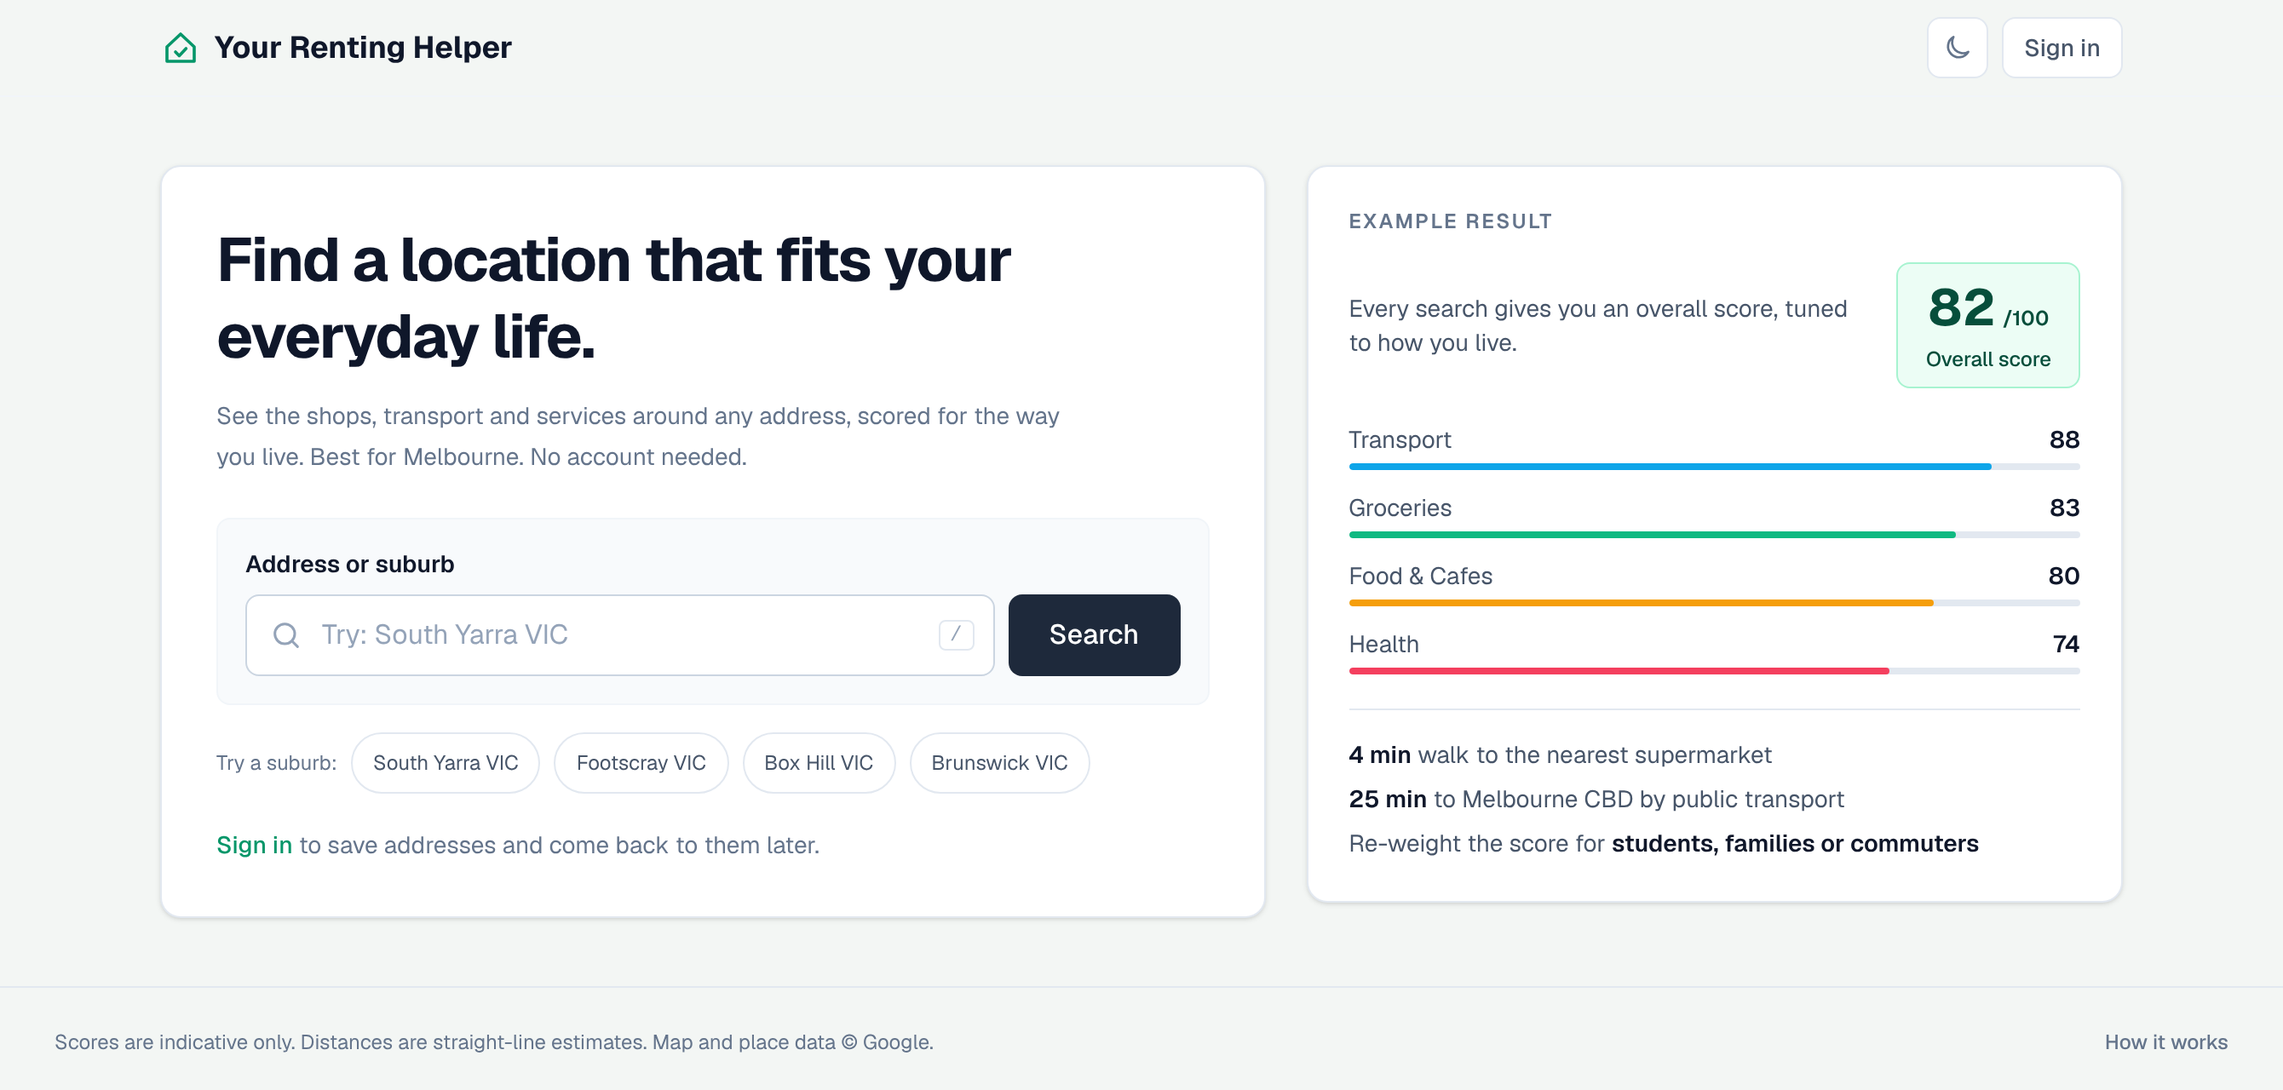
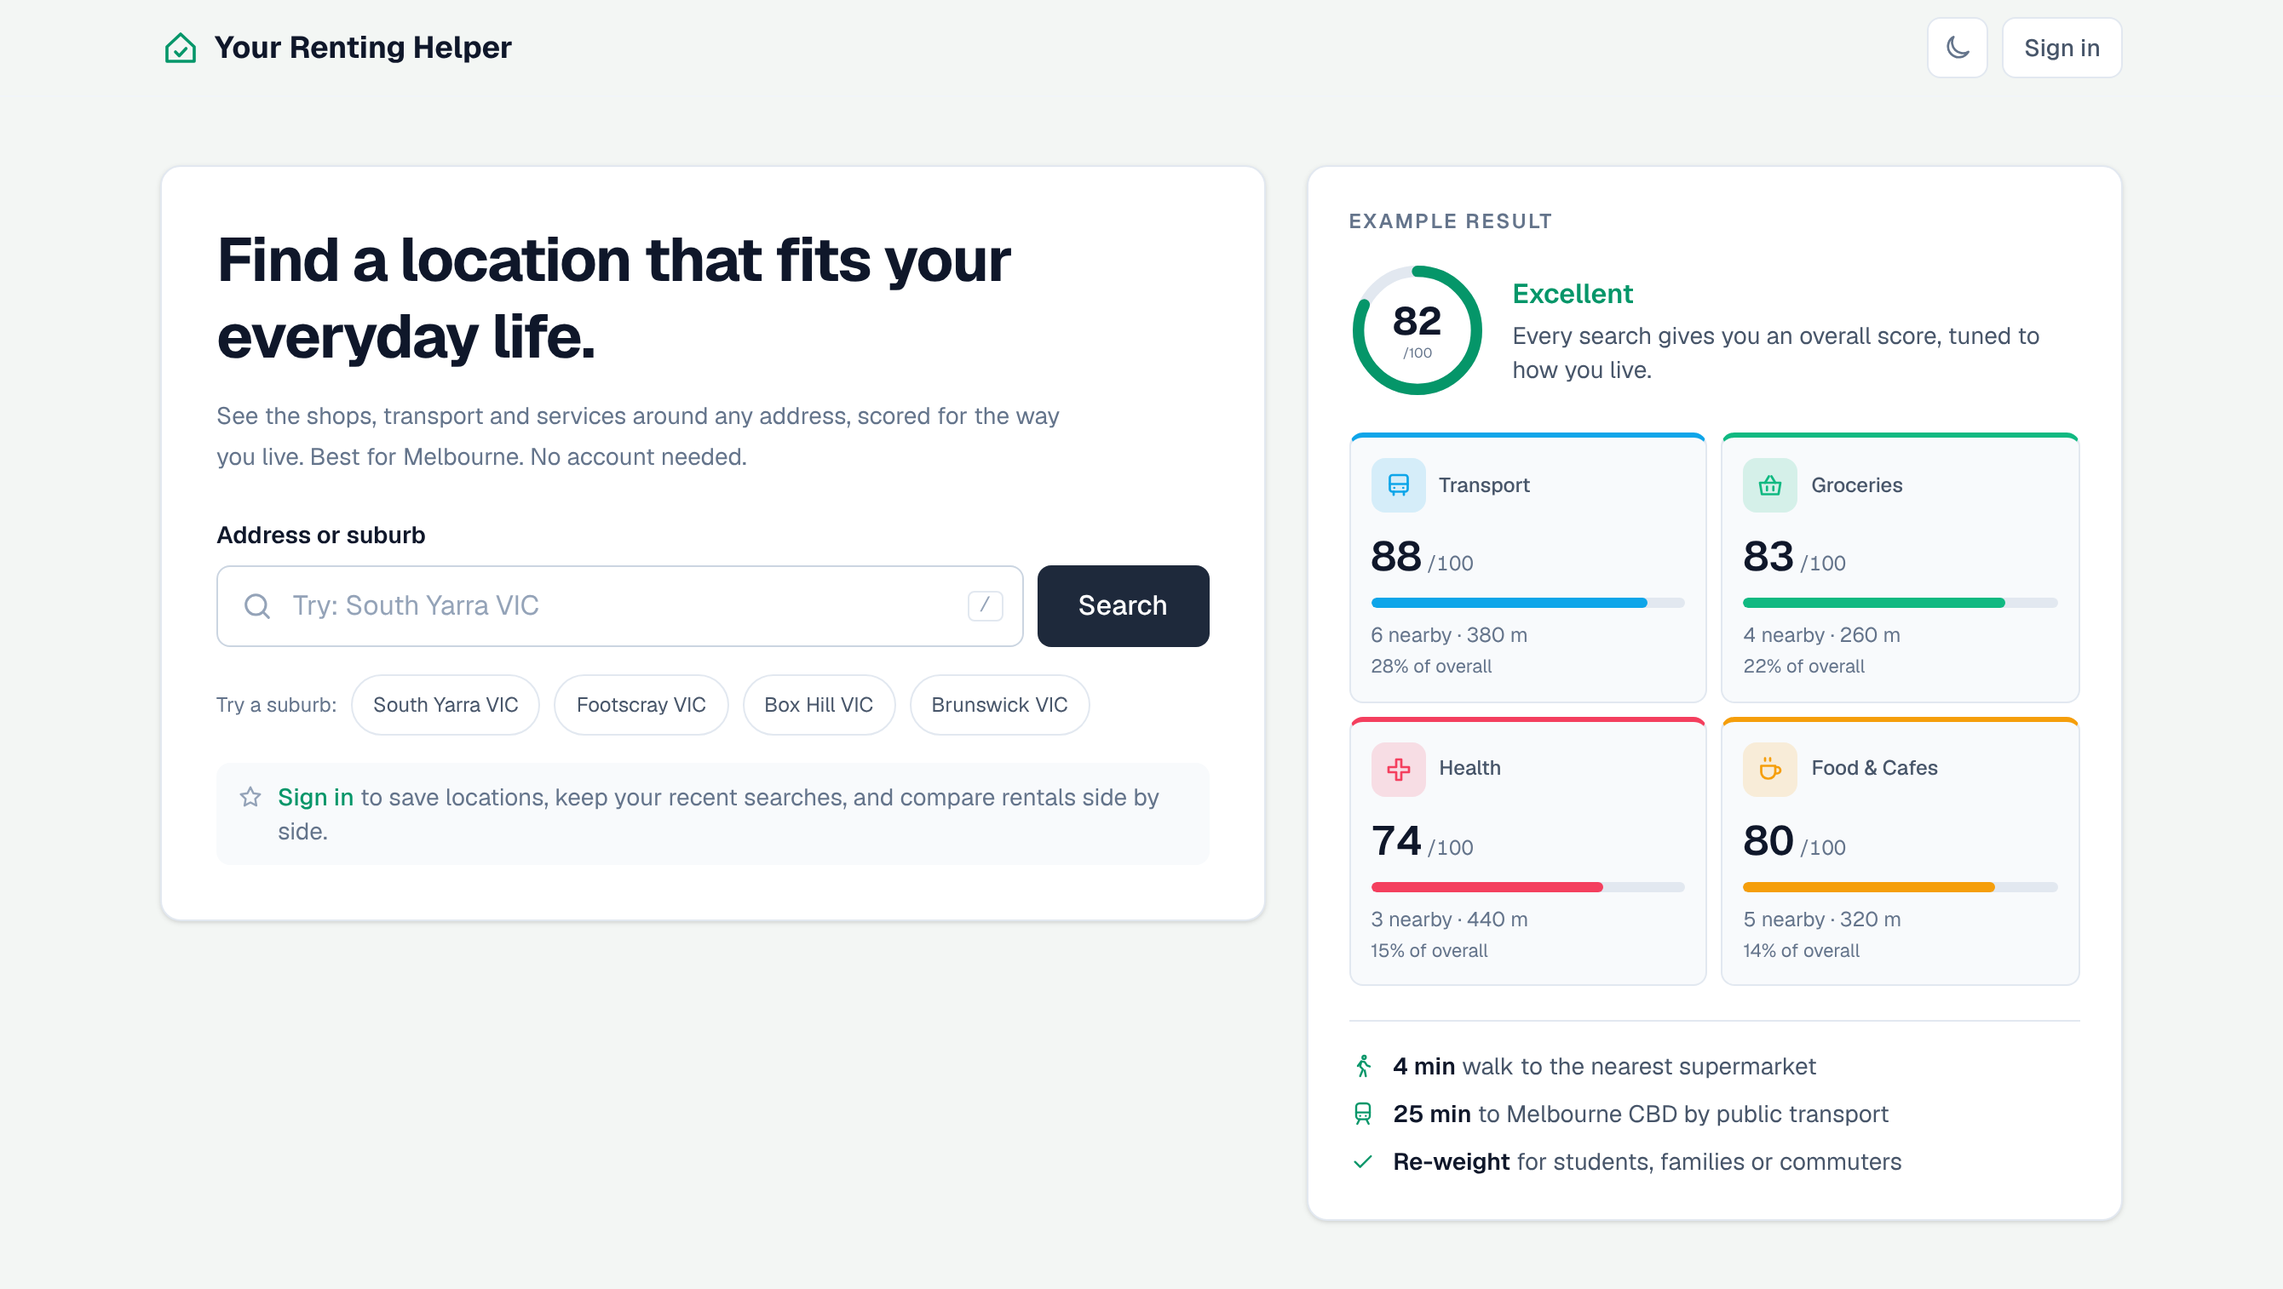
Align the home page with the result page design (#30)
The example result now uses the result page's own ScoreRing and category card face (exported from ScoreBreakdown), the search form sits directly in its card, and the signed-out prompt is the shared RecentSearches strip.

diff --git a/app/components/Welcome.tsx b/app/components/Welcome.tsx
@@ -1,10 +1,17 @@
 "use client";
 
-import Link from "next/link";
-import { useLoginHref } from "@/app/hooks/useLoginHref";
-import { categoryColor, rentScoreCategories } from "@/app/lib/categories";
+import { rentScoreCategories, weightPresets } from "@/app/lib/categories";
+import type { CategoryScore } from "@/app/lib/types";
+import { scoreBand, scoreBandClasses } from "@/app/lib/utils";
 import { useExplore } from "./ExploreProvider";
+import { CheckIcon, TrainIcon, WalkIcon } from "./icons";
 import { RecentSearches } from "./RecentSearches";
+import {
+  CategoryCardFace,
+  categoryCardClass,
+  categoryCardColor,
+} from "./ScoreBreakdown";
+import { ScoreRing } from "./ScoreRing";
 import { SearchForm } from "./SearchForm";
 
 // Four different kinds of Melbourne area; commute times only cover Melbourne.
@@ -17,75 +24,91 @@ const exampleSuburbs = [
 
 // Static numbers for the "Example result" preview. They are not a real
 // address, so the card is labelled as an example and names no suburb.
-// Labels and colours come from the real category config.
-const exampleScores = (
+// Labels come from the real category config and weights from the Balanced
+// preset, so the cards read exactly like a real result.
+const exampleOverall = 82;
+const exampleScores: CategoryScore[] = (
   [
-    ["transport", 88],
-    ["groceries", 83],
-    ["food", 80],
-    ["health", 74],
+    ["transport", 88, 6, 380],
+    ["groceries", 83, 4, 260],
+    ["health", 74, 3, 440],
+    ["food", 80, 5, 320],
   ] as const
-).map(([id, score]) => ({
-  id,
-  label: rentScoreCategories.find((item) => item.id === id)?.label ?? id,
-  score,
-}));
+).map(([id, score, count, closestDistanceMeters]) => {
+  const category = rentScoreCategories.find((item) => item.id === id);
 
+  return {
+    id,
+    label: category?.label ?? id,
+    score,
+    weight: weightPresets.balanced[id],
+    detail: "",
+    count,
+    closestDistanceMeters,
+    radiusMeters: category?.radiusMeters ?? 0,
+    explanation: "",
+  };
+});
+
+const exampleFacts = [
+  { Icon: WalkIcon, strong: "4 min", text: "walk to the nearest supermarket" },
+  {
+    Icon: TrainIcon,
+    strong: "25 min",
+    text: "to Melbourne CBD by public transport",
+  },
+  {
+    Icon: CheckIcon,
+    strong: "Re-weight",
+    text: "for students, families or commuters",
+  },
+];
+
+// Uses the result page's own pieces (ScoreRing, the category card face) so
+// the preview matches what a search actually shows.
 function ExampleResult() {
+  const band = scoreBand(exampleOverall);
+
   return (
     <aside
       aria-label="Example result"
-      className="hidden rounded-xl border border-line bg-surface p-6 shadow-sm lg:block"
+      className="hidden rounded-xl border border-line bg-surface p-5 shadow-sm sm:p-6 lg:block"
     >
       <p className="text-xs font-semibold uppercase tracking-widest text-ink-muted">
         Example result
       </p>
-      <div className="mt-4 flex items-center justify-between gap-4">
-        <p className="text-sm text-ink-soft">
-          Every search gives you an overall score, tuned to how you live.
-        </p>
-        <div className="flex shrink-0 flex-col items-center rounded-lg border border-accent-line bg-accent-soft px-4 py-2 text-accent-ink">
-          <p className="leading-none">
-            <span className="text-3xl font-bold">82</span>
-            <span className="ml-1 text-xs font-semibold">/100</span>
+      <div className="mt-4 flex items-center gap-4">
+        <ScoreRing score={exampleOverall} className="size-20" />
+        <div className="min-w-0">
+          <p className={`font-semibold ${scoreBandClasses[band.band].text}`}>
+            {band.label}
           </p>
-          <p className="mt-1 text-xs font-medium">Overall score</p>
+          <p className="mt-0.5 text-sm text-ink-soft">
+            Every search gives you an overall score, tuned to how you live.
+          </p>
         </div>
       </div>
-      <ul className="mt-5 space-y-3">
-        {exampleScores.map((item) => (
-          <li key={item.id}>
-            <div className="flex items-baseline justify-between text-sm">
-              <span className="text-ink-soft">{item.label}</span>
-              <span className="font-semibold text-ink">{item.score}</span>
-            </div>
-            <div className="mt-1 h-1 overflow-hidden rounded-full bg-line">
-              <div
-                className="h-full rounded-full"
-                style={{
-                  width: `${item.score}%`,
-                  backgroundColor: categoryColor(item.id),
-                }}
-              />
+      <ul className="mt-5 grid grid-cols-2 gap-2">
+        {exampleScores.map((category) => (
+          <li key={category.id}>
+            <div
+              className={categoryCardClass}
+              style={{ borderTopColor: categoryCardColor(category) }}
+            >
+              <CategoryCardFace category={category} />
             </div>
           </li>
         ))}
       </ul>
-      <ul className="mt-5 space-y-1.5 border-t border-line pt-4 text-sm text-ink-soft">
-        <li>
-          <span className="font-semibold text-ink">4 min</span> walk to the
-          nearest supermarket
-        </li>
-        <li>
-          <span className="font-semibold text-ink">25 min</span> to Melbourne
-          CBD by public transport
-        </li>
-        <li>
-          Re-weight the score for{" "}
-          <span className="font-semibold text-ink">
-            students, families or commuters
-          </span>
-        </li>
+      <ul className="mt-5 space-y-2 border-t border-line pt-4 text-sm text-ink-soft">
+        {exampleFacts.map(({ Icon, strong, text }) => (
+          <li key={strong} className="flex items-center gap-2.5">
+            <Icon className="size-4 shrink-0 text-accent" />
+            <span>
+              <span className="font-semibold text-ink">{strong}</span> {text}
+            </span>
+          </li>
+        ))}
       </ul>
     </aside>
   );
@@ -100,7 +123,6 @@ export function Welcome({
   onToggleSaved: Parameters<typeof RecentSearches>[0]["onToggleSaved"];
 }) {
   const search = useExplore();
-  const loginHref = useLoginHref();
 
   return (
     // Same outer padding and max width as the site header, so the logo and
@@ -115,7 +137,7 @@ export function Welcome({
             See the shops, transport and services around any address, scored for
             the way you live. Best for Melbourne. No account needed.
           </p>
-          <div className="mt-6 rounded-lg border border-line-soft bg-surface-subtle p-3 sm:p-4">
+          <div className="mt-6">
             <SearchForm
               autocomplete={search.autocomplete}
               searchState={search.searchState}
@@ -138,28 +160,19 @@ export function Welcome({
               </button>
             ))}
           </div>
-          {search.canSave ? (
+          {/* Hidden while the session loads so signed-in visitors never see
+              the sign-in strip flash before their chips arrive. Signed out,
+              RecentSearches shows the same strip as the result page. */}
+          {search.canSave || !search.sessionPending ? (
             <RecentSearches
               recent={search.recent}
               saved={search.saved}
               disabled={search.busy}
-              canSave
+              canSave={search.canSave}
               onSelect={search.searchFromHistory}
               onToggleSaved={onToggleSaved}
               onRemove={(entry) => void search.removeRecent(entry)}
             />
-          ) : !search.sessionPending ? (
-            // Hidden while the session loads so signed-in visitors never see
-            // it flash before their chips arrive.
-            <p className="mt-5 text-sm text-ink-muted">
-              <Link
-                href={loginHref}
-                className="font-medium text-accent hover:underline"
-              >
-                Sign in
-              </Link>{" "}
-              to save addresses and come back to them later.
-            </p>
           ) : null}
           {search.savedError ? (
             <p role="alert" className="mt-3 text-sm text-danger-ink">

diff --git a/app/components/ScoreBreakdown.tsx b/app/components/ScoreBreakdown.tsx
@@ -38,6 +38,60 @@ function closestPlace(group: PlaceGroup | undefined) {
   );
 }
 
+// The look of one category card: icon, score, coloured bar and the nearby
+// line. Exported so the home page's example result uses the same card and
+// cannot drift from the real one.
+export function CategoryCardFace({ category }: { category: CategoryScore }) {
+  const color = categoryCardColor(category);
+
+  return (
+    <>
+      <span className="flex items-center gap-2">
+        <CategoryTile
+          categoryId={category.id}
+          color={categoryColor(category.id)}
+        />
+        <span className="min-w-0 text-xs font-medium leading-tight text-ink-soft">
+          {category.label}
+        </span>
+      </span>
+      <span className="mt-2.5 text-2xl font-semibold tabular-nums text-ink">
+        {category.score}
+        <span className="text-xs font-normal text-ink-muted"> /100</span>
+      </span>
+      <span
+        aria-hidden="true"
+        className="mt-2 h-1.5 overflow-hidden rounded-full bg-score-track"
+      >
+        <span
+          className="block h-full rounded-full motion-safe:transition-[width] motion-safe:duration-500"
+          style={{ width: `${category.score}%`, backgroundColor: color }}
+        />
+      </span>
+      <span className="mt-2 text-xs text-ink-muted">
+        {category.count} nearby ·{" "}
+        {category.closestDistanceMeters === null
+          ? "no match"
+          : formatDistance(category.closestDistanceMeters)}
+      </span>
+      <span className="mt-0.5 text-[11px] text-ink-muted">
+        {category.weight === 0
+          ? "Not counted in overall"
+          : `${category.weight}% of overall`}
+      </span>
+    </>
+  );
+}
+
+// Card frame shared by the clickable result card and the static example:
+// the top border carries the category colour.
+export const categoryCardClass =
+  "flex h-full w-full flex-col rounded-lg border border-t-[3px] border-line bg-surface-subtle p-3 text-left";
+
+export function categoryCardColor(category: CategoryScore) {
+  return category.weight === 0 ? "#94a3b8" : categoryColor(category.id);
+}
+
 function CategoryCard({
   category,
   selected,
@@ -47,57 +101,24 @@ function CategoryCard({
   selected: boolean;
   onSelect: () => void;
 }) {
-  const excluded = category.weight === 0;
-  const color = excluded ? "#94a3b8" : categoryColor(category.id);
+  const color = categoryCardColor(category);
 
   return (
-    <li className={excluded ? "opacity-55" : ""}>
+    <li className={category.weight === 0 ? "opacity-55" : ""}>
       <button
         type="button"
         aria-expanded={selected}
         aria-controls={detailPanelId}
         onClick={onSelect}
-        // The top border carries the category colour; the selected card also
-        // gets a ring in the same colour so it reads as the open one.
-        className="focus-ring flex h-full w-full flex-col rounded-lg border border-t-[3px] border-line bg-surface-subtle p-3 text-left transition hover:bg-hover"
+        // The selected card also gets a ring in its colour so it reads as
+        // the open one.
+        className={`focus-ring ${categoryCardClass} transition hover:bg-hover`}
         style={{
           borderTopColor: color,
           boxShadow: selected ? `0 0 0 2px ${color}` : undefined,
         }}
       >
-        <span className="flex items-center gap-2">
-          <CategoryTile
-            categoryId={category.id}
-            color={categoryColor(category.id)}
-          />
-          <span className="min-w-0 text-xs font-medium leading-tight text-ink-soft">
-            {category.label}
-          </span>
-        </span>
-        <span className="mt-2.5 text-2xl font-semibold tabular-nums text-ink">
-          {category.score}
-          <span className="text-xs font-normal text-ink-muted"> /100</span>
-        </span>
-        <span
-          aria-hidden="true"
-          className="mt-2 h-1.5 overflow-hidden rounded-full bg-score-track"
-        >
-          <span
-            className="block h-full rounded-full motion-safe:transition-[width] motion-safe:duration-500"
-            style={{ width: `${category.score}%`, backgroundColor: color }}
-          />
-        </span>
-        <span className="mt-2 text-xs text-ink-muted">
-          {category.count} nearby ·{" "}
-          {category.closestDistanceMeters === null
-            ? "no match"
-            : formatDistance(category.closestDistanceMeters)}
-        </span>
-        <span className="mt-0.5 text-[11px] text-ink-muted">
-          {excluded
-            ? "Not counted in overall"
-            : `${category.weight}% of overall`}
-        </span>
+        <CategoryCardFace category={category} />
       </button>
     </li>
   );

diff --git a/dev_notes.md b/dev_notes.md
@@ -37,7 +37,7 @@ The product direction remains amenities-first. Scores are compact summaries; nea
 
 ### Implemented
 
-- One page per address. From `lg` up the page is a split view: a scrolling column of cards (by default about half the page on `lg` and 800px from `xl`) beside a map card that fills the rest of the width and one screen height under the header, with a 16px margin to the right and bottom edges. A divider between them (`SplitDivider.tsx`, `role="separator"`) resizes the split: drag it, or focus it and use Left/Right (Shift for bigger steps), Home/End for the limits, and Enter or double-click to reset. The card column stays at least 440px and the map at least 480px (`splitLimits` in `utils.ts`). The chosen width is a CSS variable on the grid, written directly while dragging and saved to localStorage on release (`useSplitWidth.ts`), so it is kept per browser. The card column is a CSS container, so cards that change layout (the category grid, the Nearby amenities columns) follow the column's width, not the window's. Below `lg` the result is split into Scores, Places and Map tabs. Before the first search, `/` shows a simple welcome (`Welcome.tsx`) instead: a search card with a headline, short intro (best for Melbourne), the search form, four example suburbs, and either a sign-in line or the saved and recent chips, beside a static "Example result" card (hidden on phones). It has no map and makes no provider request. Location pages always show the workspace, so a direct visit never flashes the welcome.
+- One page per address. From `lg` up the page is a split view: a scrolling column of cards (by default about half the page on `lg` and 800px from `xl`) beside a map card that fills the rest of the width and one screen height under the header, with a 16px margin to the right and bottom edges. A divider between them (`SplitDivider.tsx`, `role="separator"`) resizes the split: drag it, or focus it and use Left/Right (Shift for bigger steps), Home/End for the limits, and Enter or double-click to reset. The card column stays at least 440px and the map at least 480px (`splitLimits` in `utils.ts`). The chosen width is a CSS variable on the grid, written directly while dragging and saved to localStorage on release (`useSplitWidth.ts`), so it is kept per browser. The card column is a CSS container, so cards that change layout (the category grid, the Nearby amenities columns) follow the column's width, not the window's. Below `lg` the result is split into Scores, Places and Map tabs. Before the first search, `/` shows a simple welcome (`Welcome.tsx`) instead: a search card with a headline, short intro (best for Melbourne), the search form, four example suburbs, and the same `RecentSearches` block as the result page (the sign-in strip when signed out, saved and recent chips when signed in), beside a static "Example result" card (hidden on phones). The example is built from the result page's own pieces, `ScoreRing` and the category card face exported from `ScoreBreakdown.tsx` (`CategoryCardFace`), with fixed numbers and Balanced weights, so it always looks like a real result. It has no map and makes no provider request. Location pages always show the workspace, so a direct visit never flashes the welcome.
 - The shared header is one line at every width: logo mark and name, theme toggle, and account. It is sticky at every size. It is full width on result pages, so the desktop map sticks directly under it, and centred to the welcome cards' width on the pre-search home page. The logo returns to the welcome without starting a provider request.
 - Successful searches and direct location opens replace the search query with the matched formatted address. The result header shows the overall score as a ring coloured by score band, the address, the band word (Excellent 80+, Good 70-79, Fair 50-69, Limited under 50, from `scoreBand` in `utils.ts`), the evidence date, a coverage chip (how many categories have fewer than three places), the match type, the mobility and score-priority selectors, Save (signed-in visitors only, with an Undo toast on removal), Share (copies the page address) and Print (hidden on phones, where Save and Share sit on the mobility row). On phones a new result scrolls the result header to the top of the screen, because the search card would otherwise push the score below the first screen.
 - Signed-in users see an initial avatar; it opens a plain disclosure (not an ARIA menu) showing the account email and Sign out. Escape and outside clicks close it.
